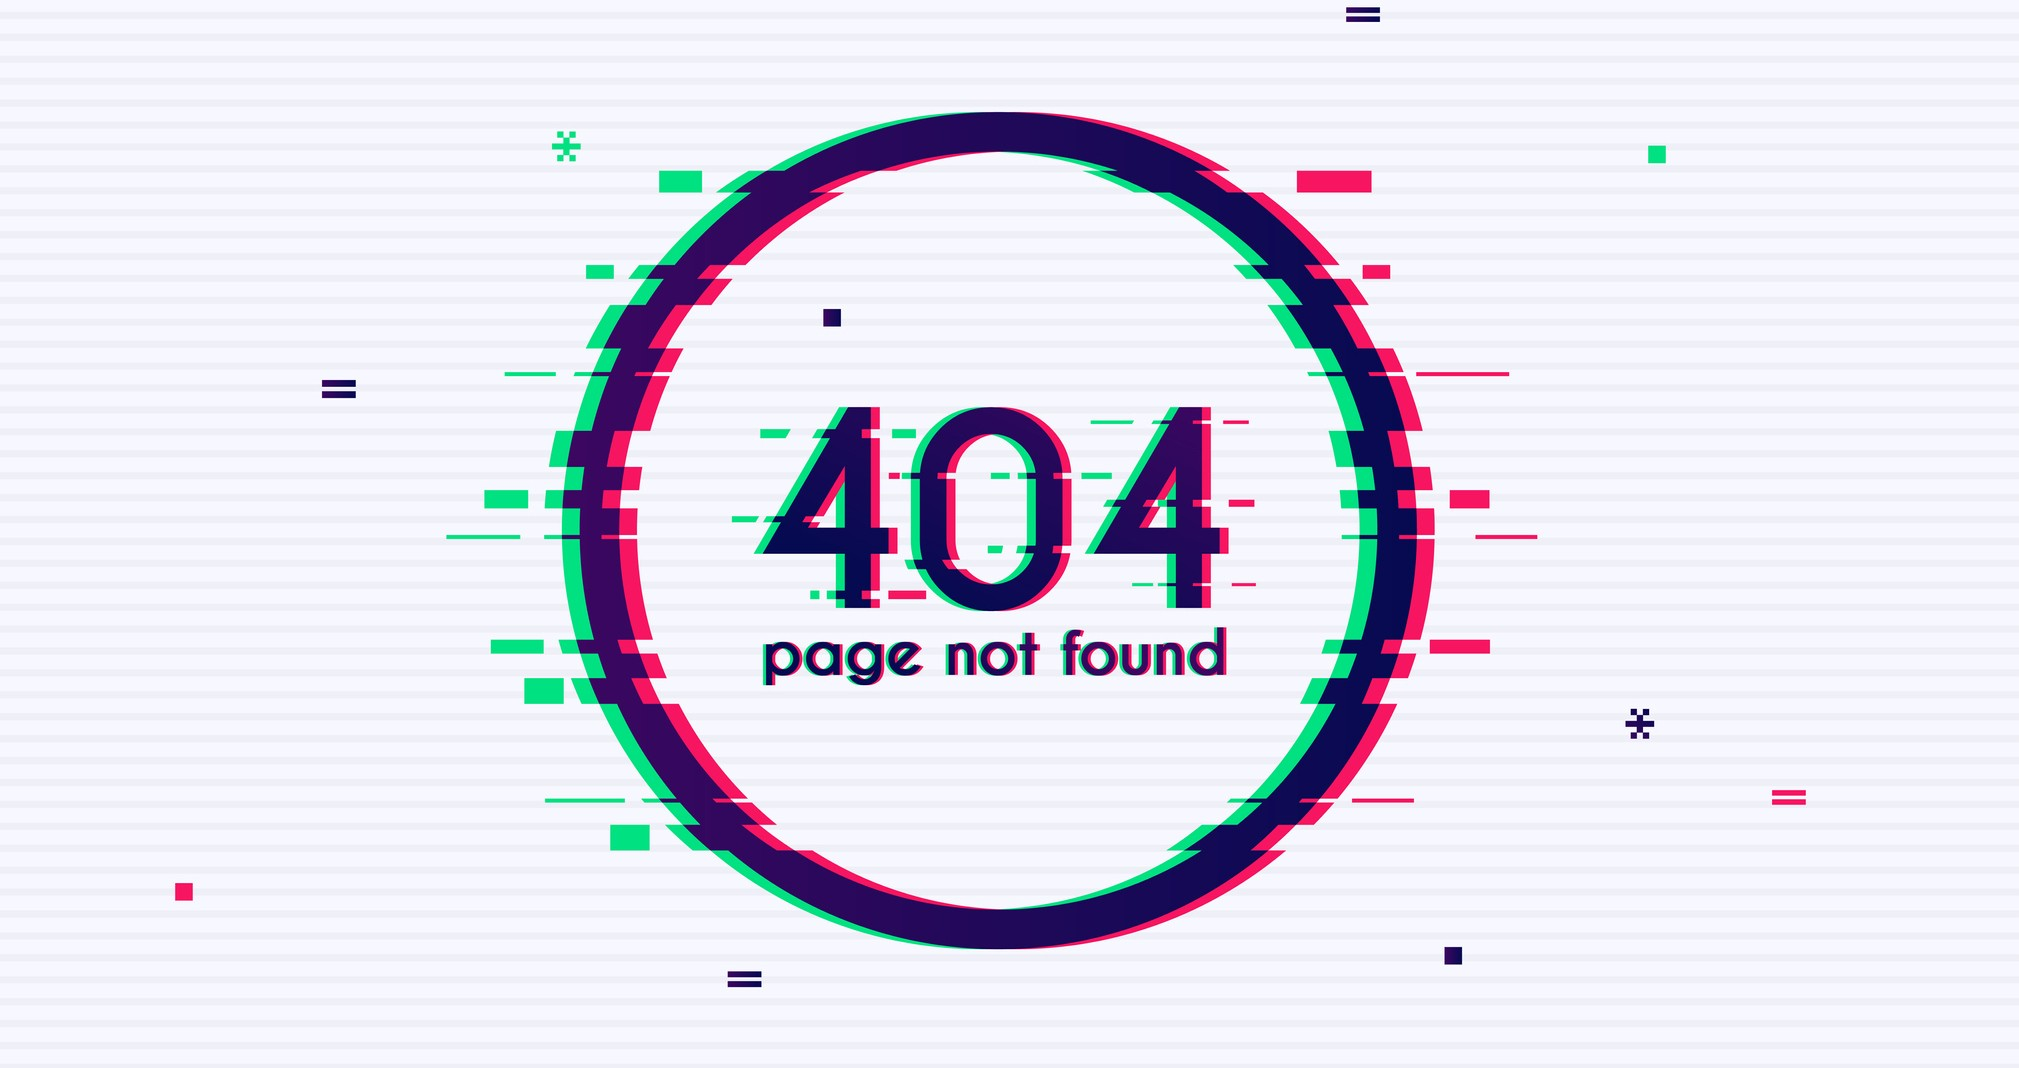
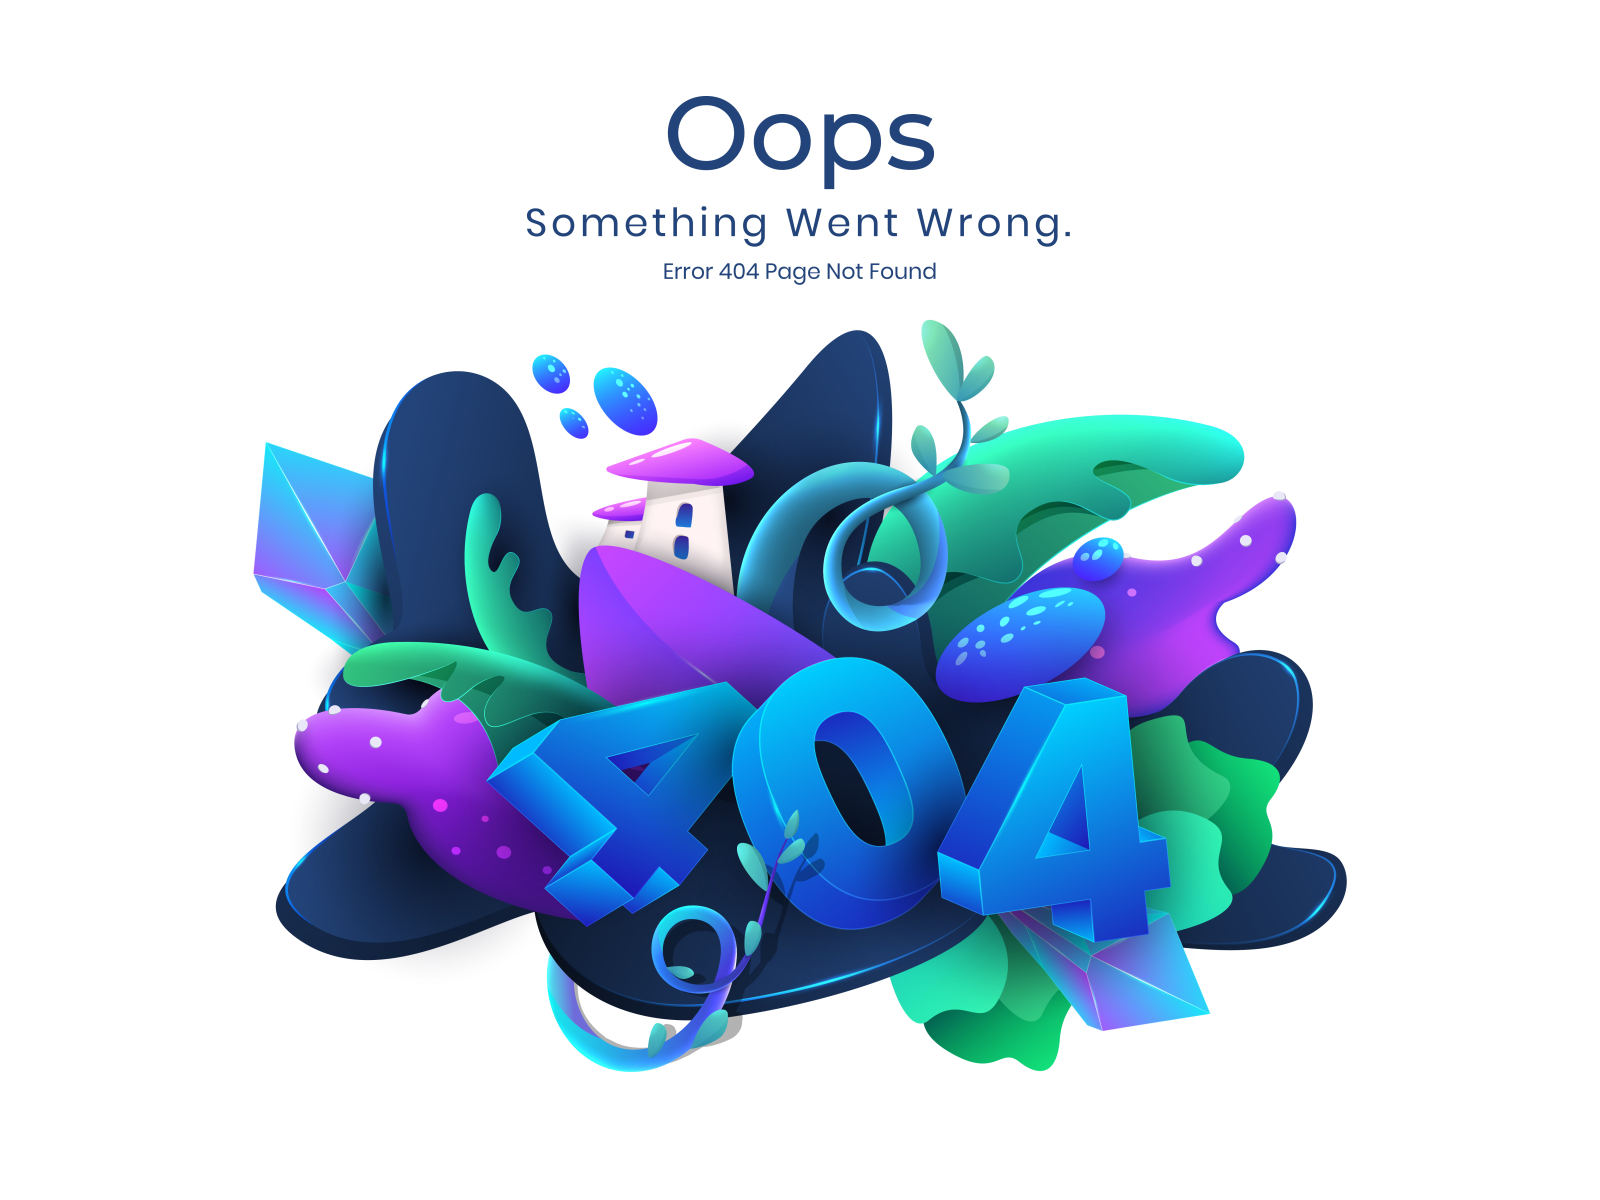
feat: change error page

diff --git a/src/pages/vocab/index.tsx b/src/pages/vocab/index.tsx
@@ -67,13 +67,13 @@ const Vocab = memo(() => {
 
   const { data, isLoading } = useGetAllVocab({
     page:
-      isURLVocabTrainer ?
-        paginationVocabState.page!
-      : searchParams.get('page')!,
+      isURLVocabTrainer
+        ? paginationVocabState.page
+        : searchParams.get('page') ?? '1',
     limit:
-      isURLVocabTrainer ?
-        paginationVocabState.limit!
-      : searchParams.get('limit')!,
+      isURLVocabTrainer
+        ? paginationVocabState.limit
+        : searchParams.get('limit') ?? LIMIT_PAGE_10,
     sortBy: sorting[0]?.id ?? undefined,
     orderBy: convertOrderBy(sorting),
     subjectFilter: filterData.subject?.map((item) => item.value),
@@ -106,7 +106,8 @@ const Vocab = memo(() => {
     setRandomData(data)
 
     const ids = data.map((item) => item._id)
-    const random = ids.sort(() => 0.5 - Math.random()).slice(0, amountRandom)
+    const shuffledIds = [...ids].sort(() => 0.5 - Math.random())
+    const random = shuffledIds.slice(0, amountRandom)
 
     const result = random.reduce<{ [key: string]: boolean }>((obj, key) => {
       obj[key] = true
@@ -116,8 +117,8 @@ const Vocab = memo(() => {
     if (result) {
       setRowSelection(result)
     }
-  }
 
+  }
   const handleRandom = () => {
     mutateRandom(amountRandom)
   }
@@ -180,7 +181,7 @@ const Vocab = memo(() => {
         accessorKey: 'textSource',
         header: 'Text source',
         cell: ({ row, getValue }) => (
-          <div
+          <button
             className="w-full cursor-pointer"
             onClick={() =>
               dispatch(
@@ -191,19 +192,14 @@ const Vocab = memo(() => {
             }
           >
             <div className="flex items-center">
-              <Badge
-                variant="outline"
-                className="badge gap-2 break-all bg-emerald-500 text-primary-foreground"
-              >
-                {String(getValue())}
-              </Badge>
+              <p className="font-semibold">{String(getValue())}</p>
 
               <Voice
                 lang={row.original.sourceLanguage}
                 text={String(getValue())}
               />
             </div>
-          </div>
+          </button>
         )
       },
       {
@@ -222,14 +218,11 @@ const Vocab = memo(() => {
               )
             }
           >
-            <div>
+            <div className="flex gap-1">
               {row.original.textTarget.map((item) => {
                 return (
                   <Fragment key={item.text}>
-                    <Badge
-                      variant="outline"
-                      className="gap-2 bg-sky-500 text-primary-foreground"
-                    >
+                    <Badge variant="outline" className="text-gray-vc-600">
                       {item.text}
                     </Badge>
                   </Fragment>
@@ -400,6 +393,7 @@ const Vocab = memo(() => {
       }
     </>
   )
+
 })
 
 export default Vocab

diff --git a/src/pages/error/index.tsx b/src/pages/error/index.tsx
@@ -4,13 +4,17 @@ import Page404 from '../../assets/img/background/404page.webp'
 export const ErrorTemplate = () => {
   const navigate = useNavigate()
   return (
-    <div className="mt-4 w-fit flex justify-center items-center">
-      <img
+    <div className="flex h-screen items-center justify-center overflow-hidden">
+      <button
         onClick={() => navigate('/')}
-        className="block mx-auto my-auto"
-        src={Page404}
-        alt="Page404"
-      />
+        onKeyDown={(e) => e.key === 'Enter' && navigate('/')}
+      >
+        <img
+          className="h-full w-full object-contain transform scale-75"
+          src={Page404}
+          alt="Page404"
+        />
+      </button>
     </div>
   )
 }
